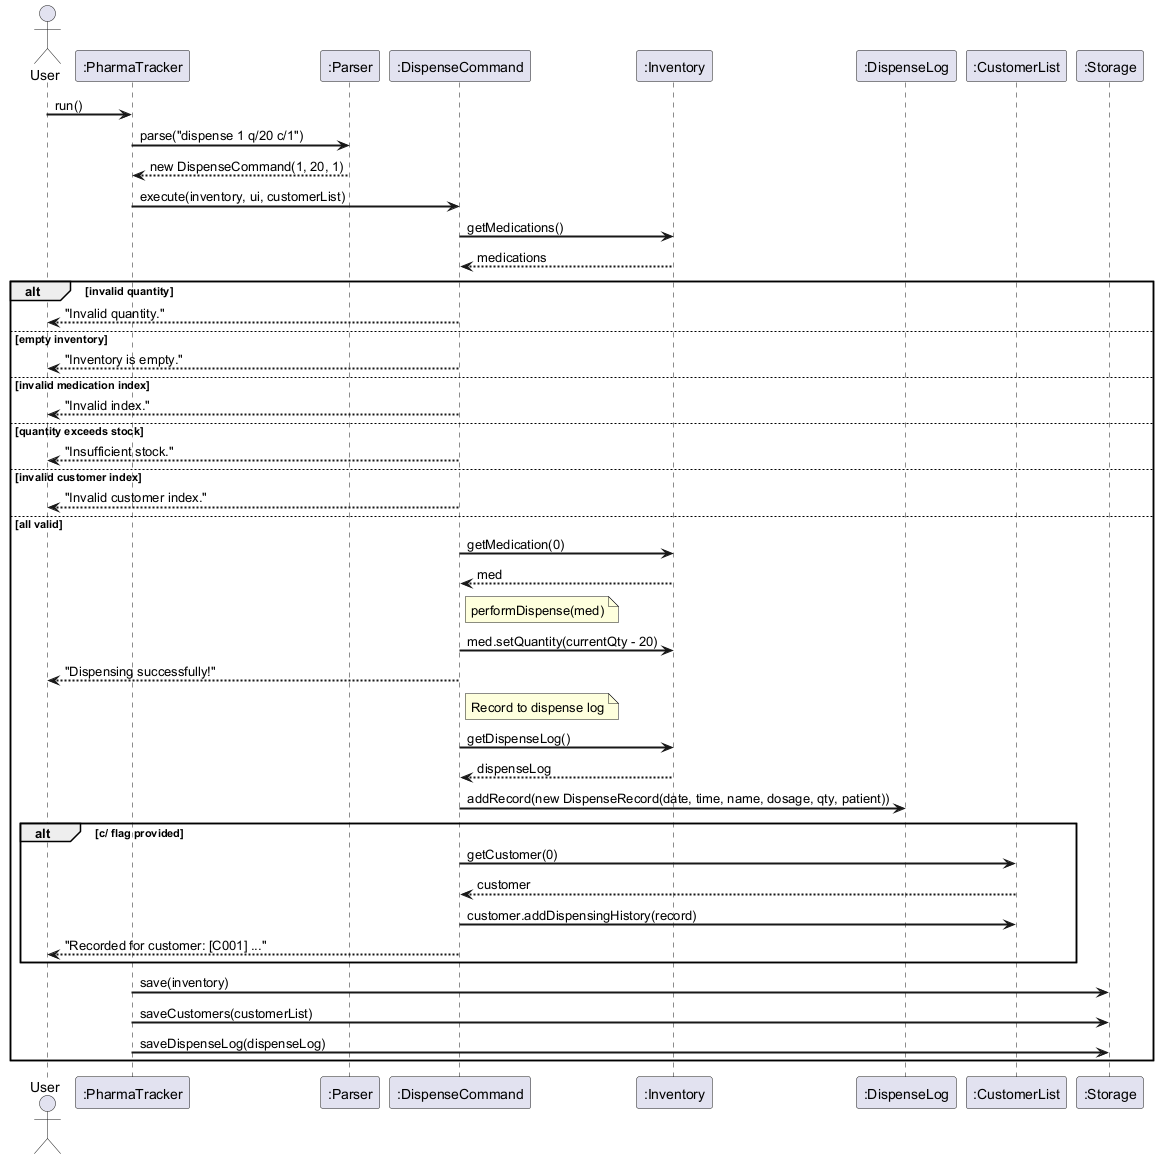
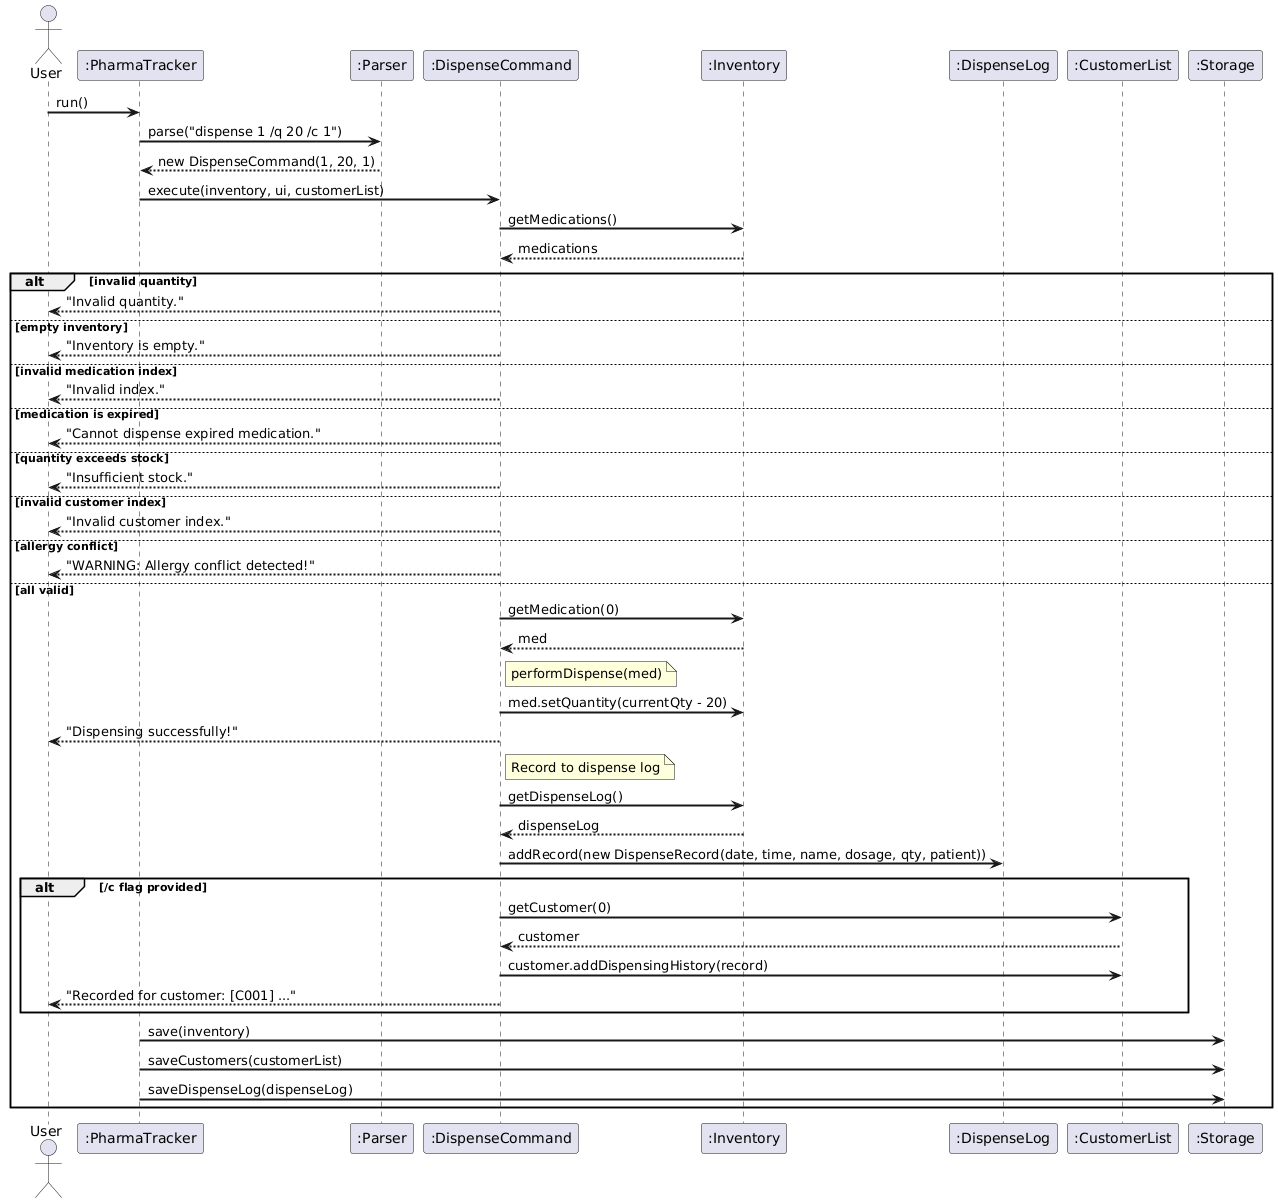
Block dispensing expired medication and sync dispense docs/diagrams

diff --git a/src/test/java/seedu/pharmatracker/command/DispenseCommandTest.java b/src/test/java/seedu/pharmatracker/command/DispenseCommandTest.java
@@ -193,6 +193,35 @@ public class DispenseCommandTest {
         assertTrue(out.toString().contains("10"));
     }
 
+    /**
+     * Tests that dispensing an expired medication is blocked and stock remains unchanged.
+     */
+    @Test
+    public void execute_expiredMedication_blocksDispenseAndKeepsStock() {
+        Inventory inventory = new Inventory();
+        inventory.addMedication(new Medication("ExpiredMed", "100mg", 10, "2000-01-01", "pain"));
+
+        new DispenseCommand(1, 2).execute(inventory, new Ui(), new CustomerList());
+
+        String output = out.toString();
+        assertTrue(output.contains("Cannot dispense expired medication"));
+        assertFalse(output.contains("Dispensing successfully!"));
+        assertEquals(10, inventory.getMedication(0).getQuantity());
+    }
+
+    /**
+     * Tests that blocked dispensing of expired medication does not create a dispense log record.
+     */
+    @Test
+    public void execute_expiredMedication_noDispenseLogRecordCreated() {
+        Inventory inventory = new Inventory();
+        inventory.addMedication(new Medication("ExpiredMed", "100mg", 10, "2000-01-01", "pain"));
+
+        new DispenseCommand(1, 2).execute(inventory, new Ui(), new CustomerList());
+
+        assertEquals(0, inventory.getDispenseLog().size());
+    }
+
     // -------------------------------------------------------------------------
     // Invalid quantity
     // -------------------------------------------------------------------------

diff --git a/src/main/java/seedu/pharmatracker/command/DispenseCommand.java b/src/main/java/seedu/pharmatracker/command/DispenseCommand.java
@@ -95,6 +95,14 @@ public class DispenseCommand extends Command {
             return;
         }
 
+        if (med.isExpired()) {
+            logger.log(Level.WARNING, "Attempted to dispense expired medication: {0} (Exp: {1})",
+                new Object[]{med.getName(), med.getExpiryDate()});
+            System.out.println("Cannot dispense expired medication: " + med.getName()
+                + " (Expired on " + med.getExpiryDate() + ").");
+            return;
+        }
+
         if (!hasSufficientStock(med)) {
             logger.log(Level.WARNING, "Insufficient stock for {0}: requested={1}, available={2}",
                     new Object[]{med.getName(), quantity, med.getQuantity()});

diff --git a/docs/DeveloperGuide.md b/docs/DeveloperGuide.md
@@ -461,11 +461,11 @@ dispense INDEX /q QUANTITY [/c CUSTOMER_INDEX]
 
 #### How it works
 
-1. The user enters `dispense 1 q/20 /c 1` (or `dispense 1 q/20` without customer linking).
+1. The user enters `dispense 1 /q 20 /c 1` (or `dispense 1 /q 20` without customer linking).
 2. `PharmaTracker.run()` passes the raw string to `Parser.parse()`.
 3. `Parser.parse()` identifies the command word `dispense`, then:
    - Extracts the medication index from the leading portion of the description.
-   - Locates the `q/` flag and parses the quantity.
+   - Locates the `/q` flag and parses the quantity.
     - Checks for the optional `/c` flag. If present, its value is parsed as an integer
      `customerIndex`; if absent, the two-argument constructor is used, which internally
      sets `customerIndex` to the sentinel value `NO_CUSTOMER` (-1).
@@ -473,6 +473,8 @@ dispense INDEX /q QUANTITY [/c CUSTOMER_INDEX]
 5. `PharmaTracker.run()` calls `DispenseCommand.execute()`, which performs the following
    validation before modifying any data:
    - If the medication index is out of range, an error is printed and the command returns early.
+    - If the medication is expired, an error is printed and the command returns early. Stock is
+       **not** decremented.
    - If the quantity exceeds current stock, an error is printed and the command returns early.
    - If `customerIndex != NO_CUSTOMER` and the customer index is out of range, an error is
      printed and the command returns early. Stock is **not** decremented in this case.
@@ -488,7 +490,7 @@ dispense INDEX /q QUANTITY [/c CUSTOMER_INDEX]
    customer's ID and name.
 
 The following sequence diagram shows the full execution flow of `dispense` with customer
-linking. The `[c/ flag present]` alt branch is only entered when a customer index is supplied:
+linking. The `[/c flag present]` alt branch is only entered when a customer index is supplied:
 
 ![Sequence diagram showing the execution flow of the Dispense Command with Customer Linking](images/DispenseCommandSequence.png)
 
@@ -496,7 +498,7 @@ linking. The `[c/ flag present]` alt branch is only entered when a customer inde
 
 | Aspect | Choice | Reason |
 |--------|--------|--------|
-| Optional `c/` flag vs a separate command | Optional flag on existing command | Avoids duplicating stock-decrement logic; fully backward compatible — existing calls without `c/` are unaffected |
+| Optional `/c` flag vs a separate command | Optional flag on existing command | Avoids duplicating stock-decrement logic; fully backward compatible — existing calls without `/c` are unaffected |
 | Sentinel value `NO_CUSTOMER = -1` | Sentinel (`int`) over `Integer` / `null` | Avoids autoboxing and null-pointer risk on a primitive field; the sentinel is a named constant and self-documenting |
 | Customer index validated **before** stock decrement | Pre-decrement guard | Prevents a state where stock is already reduced but the customer record write then fails |
 | Allergy check positioned **after** customer index validation, **before** stock decrement | Pre-decrement guard | Ensures stock is never modified when dispensing is blocked by an allergy conflict |
@@ -1064,10 +1066,10 @@ Fast, lightweight medication tracking without needing a database or internet con
 
 ### Dispensing with customer linking
 
-1. Enter: `dispense 1 q/20 /c 1`
+1. Enter: `dispense 1 /q 20 /c 1`
 2. **Expected:** Stock reduced by 20, confirmation includes customer ID and name.
-3. Without customer: `dispense 1 q/20` → behaves as original, no customer info in output.
-4. Invalid customer index: `dispense 1 q/20 /c 99` → error message for out-of-bounds customer index.
+3. Without customer: `dispense 1 /q 20` → behaves as original, no customer info in output.
+4. Invalid customer index: `dispense 1 /q 20 /c 99` → error message for out-of-bounds customer index.
 
 ### Updating a customer
 
@@ -1087,9 +1089,9 @@ Fast, lightweight medication tracking without needing a database or internet con
 
 ### Viewing the daily dispense log
 
-1. Dispense some medications first: `dispense 1 q/5` and `dispense 2 q/3`.
+1. Dispense some medications first: `dispense 1 /q 5` and `dispense 2 /q 3`.
 2. Enter: `dispenselog`
 3. **Expected:** A log showing today's date, one entry per dispense event with time, medication name, dosage, quantity, and patient name (if linked). A totals line at the bottom shows event count and total units.
-4. With a patient: `dispense 1 q/2 /c 1` then `dispenselog` → the patient's name appears on that entry.
+4. With a patient: `dispense 1 /q 2 /c 1` then `dispenselog` → the patient's name appears on that entry.
 5. Specific past date: `dispenselog /date 2026-01-01` → `No dispense events recorded for 2026-01-01.` (assuming no events on that date).
 6. Invalid date format: `dispenselog /date 09-04-2026` → error message asking for `YYYY-MM-DD` format.

diff --git a/docs/team/alsonsim.md b/docs/team/alsonsim.md
@@ -26,7 +26,7 @@ Extended the existing `dispense` command with an optional `/c CUSTOMER_INDEX` fl
 **Technical Implementation:**
 - Added an overloaded constructor to `DispenseCommand` using a sentinel value (`NO_CUSTOMER = -1`) to distinguish linked and unlinked dispenses without nullable primitives or autoboxing overhead.
 - Implemented a pre-decrement validation sequence: medication index → stock sufficiency → customer index. This ordering ensures no state is modified if any validation fails, preserving atomicity between the stock update and the customer history write.
-- Updated `Parser` to detect and extract the optional `c/` flag.
+- Updated `Parser` to detect and extract the optional `/c` flag.
 - Wrote 4 new JUnit tests covering customer linking, confirmation output, invalid customer index rollback, and the no-customer baseline (10 tests total, all passing).
 
 #### 2. List Inventory (`list`)
@@ -58,7 +58,7 @@ Implemented an additive restock command that tops up an existing medication's st
 | `list` command | Format, descriptive list of fields (name, dosage, quantity, expiry), and example output with low-stock indicators |
 | `listcustomers` command | Format, both examples (with and without customers), and expected output blocks |
 | `restock` command | Format, both examples, and expected output blocks |
-| `dispense` command | Extended format with optional `c/` flag, both examples (with and without customer linking), expected output blocks, and error behaviour description |
+| `dispense` command | Extended format with optional `/c` flag, both examples (with and without customer linking), expected output blocks, and error behaviour description |
 | Command Summary table | Updated with all implemented commands |
 
 ---
@@ -83,7 +83,7 @@ Implemented an additive restock command that tops up an existing medication's st
 ### Contributions to Team-Based Tasks
 
 - Maintained `DispenseCommand.java` as the feature evolved across multiple iterations, keeping Javadoc consistent with team conventions.
-- Ensured backward compatibility of the `dispense` command so existing behaviour and existing tests were unaffected by the new `c/` flag.
+- Ensured backward compatibility of the `dispense` command so existing behaviour and existing tests were unaffected by the new `/c` flag.
 
 ### Review / Mentoring Contributions
 
@@ -299,7 +299,7 @@ Reduces the stock of a medication by the specified quantity. Optionally links th
 
 **Example without customer linking:**
 
-Command: `dispense 2 q/10`
+Command: `dispense 2 /q 10`
 
 ```text
 Dispensing successfully!
@@ -310,7 +310,7 @@ Updated Stock: 40 units
 
 **Example with customer linking:**
 
-Command: `dispense 1 q/20 /c 1`
+Command: `dispense 1 /q 20 /c 1`
 
 ```text
 Dispensing successfully!

diff --git a/docs/UserGuide.md b/docs/UserGuide.md
@@ -223,6 +223,7 @@ history. If `/c CUSTOMER_INDEX` is omitted, the command behaves exactly as befor
 **Format**: `dispense INDEX /q QUANTITY [/c CUSTOMER_INDEX]`
 
 - Dispensing fails if the requested quantity exceeds the current stock.
+- Dispensing is blocked for expired medications. A warning is shown and stock remains unchanged.
 - `/c CUSTOMER_INDEX` is optional. If omitted, no customer record is updated.
 - If `/c CUSTOMER_INDEX` is provided but out of range, an error is shown and
   stock remains unchanged.
@@ -231,7 +232,7 @@ history. If `/c CUSTOMER_INDEX` is omitted, the command behaves exactly as befor
 
 **Example — no customer linked:**
 
-`dispense 2 q/10`
+`dispense 2 /q 10`
 
 ```
 Dispensing successfully!
@@ -242,7 +243,7 @@ Updated Stock: 40 units
 
 **Example — linked to customer:**
 
-`dispense 1 q/20 /c 1`
+`dispense 1 /q 20 /c 1`
 
 ```
 Dispensing successfully!
@@ -254,12 +255,20 @@ Recorded for customer: [C001] John Tan.
 
 **Example — allergy conflict detected:**
 
-`dispense 1 q/5 /c 1` *(where customer C001 is allergic to penicillin and medication 1 is Penicillin V)*
+`dispense 1 /q 5 /c 1` *(where customer C001 is allergic to penicillin and medication 1 is Penicillin V)*
 
 ```
 WARNING: Allergy conflict detected!
 Customer "Alice Tan" has a recorded allergy to "penicillin".
 Dispense aborted. Please verify with a pharmacist before proceeding.
+```
+
+**Example — expired medication blocked:**
+
+`dispense 3 /q 10`
+
+```
+Cannot dispense expired medication: Amoxicillin (Expired on 2024-10-01).
 ```
 
 ---

diff --git a/README.md b/README.md
@@ -107,13 +107,13 @@ view 3
 Removes a quantity of medication from inventory (e.g., when dispensing to a patient).
 
 ```
-dispense <index> q/<quantity>
+dispense <index> /q <quantity>
 ```
 
 **Examples:**
 ```
-dispense 1 q/10
-dispense 2 q/50
+dispense 1 /q 10
+dispense 2 /q 50
 ```
 
 ### 7. Print Medication Label
